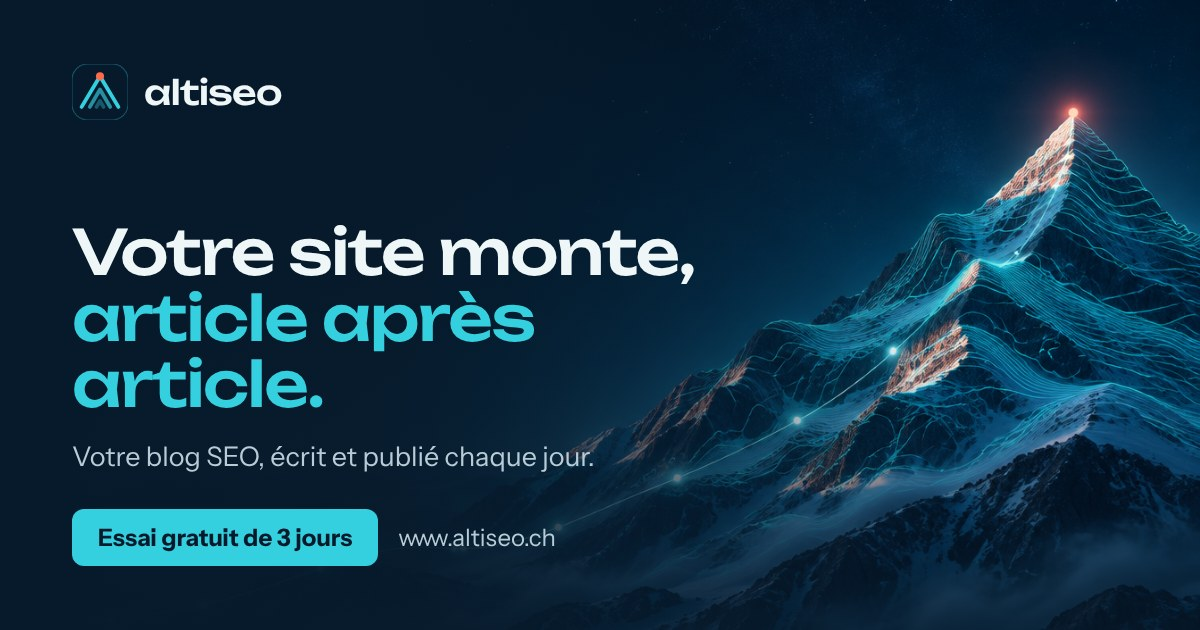
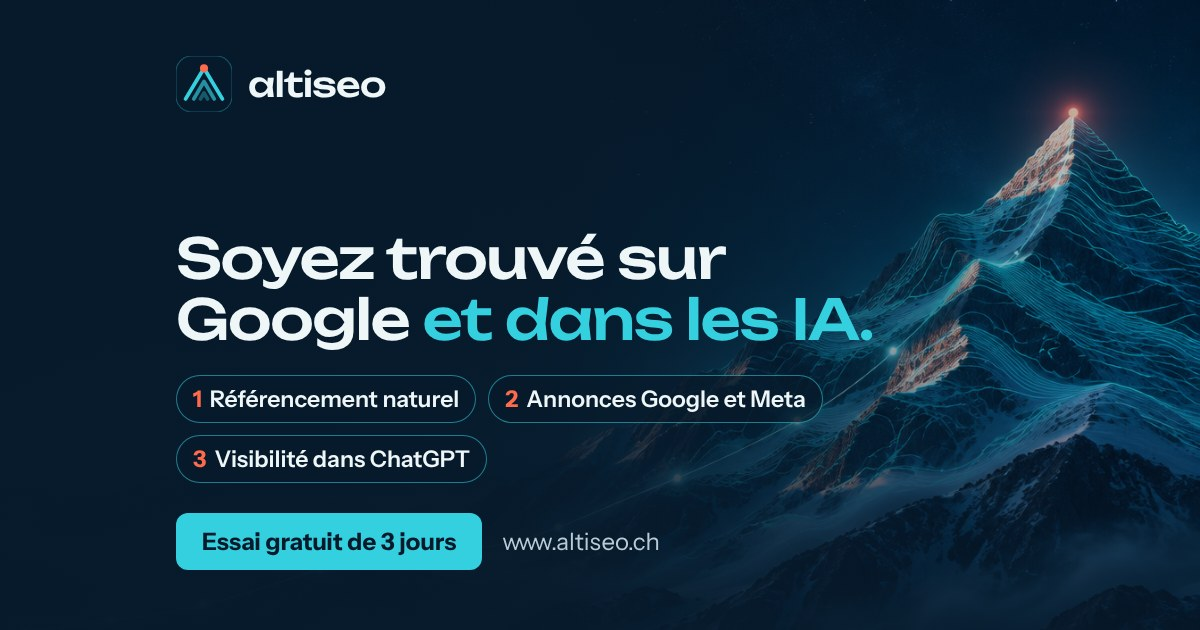
Rework the share preview: stronger message, safe from cropping
Messaging apps crop the preview image to its centre, which cut the logo
and headline. Everything now sits inside the centre area they keep. The
image and the link text put forward natural search, Google and Meta
ads, and visibility in AI assistants, with the free trial as the call
to action.

Claude-Session: https://claude.ai/code/session_011RBLGKB5dKpvgzhoEGGa65

diff --git a/replica/brand/partage.html b/replica/brand/partage.html
@@ -4,18 +4,20 @@
 *{margin:0;box-sizing:border-box}
 body{width:1200px;height:630px;position:relative;overflow:hidden;background:#071a2b;color:#eef6f8;font-family:I,sans-serif}
 .bg{position:absolute;inset:0;background:url("partage-fond.png") right center/cover}
-.shade{position:absolute;inset:0;background:linear-gradient(90deg,#071a2b 0%,rgba(7,26,43,.92) 34%,rgba(7,26,43,.35) 62%,rgba(7,26,43,0) 80%),linear-gradient(0deg,rgba(7,26,43,.75) 0%,rgba(7,26,43,0) 38%)}
-.wrap{position:absolute;inset:0;padding:64px 72px;display:flex;flex-direction:column}
+.shade{position:absolute;inset:0;background:linear-gradient(90deg,rgba(7,26,43,.96) 0%,rgba(7,26,43,.93) 46%,rgba(7,26,43,.5) 70%,rgba(7,26,43,.1) 100%),linear-gradient(0deg,rgba(7,26,43,.8) 0%,rgba(7,26,43,0) 40%)}
+.wrap{position:absolute;inset:0;padding:56px 176px 60px 176px;display:flex;flex-direction:column}
 .logo{display:flex;align-items:center;gap:16px;font-family:U;font-weight:500;font-size:34px;letter-spacing:-.02em}
-h1{font-family:U;font-weight:500;font-size:62px;line-height:1.06;letter-spacing:-.025em;margin-top:auto;max-width:720px}
+h1{font-family:U;font-weight:500;font-size:56px;line-height:1.08;letter-spacing:-.025em;margin-top:auto;max-width:760px}
 h1 em{font-style:normal;color:#35d0e0}
-p{font-size:27px;line-height:1.35;color:#b7ccd6;margin-top:22px;max-width:640px}
-.row{display:flex;align-items:center;gap:20px;margin-top:34px}
+ul{list-style:none;padding:0;display:flex;flex-wrap:wrap;gap:12px;margin-top:26px;max-width:800px}
+li{font-size:23px;font-weight:600;padding:9px 16px;border-radius:999px;border:1.5px solid rgba(53,208,224,.55);background:rgba(7,26,43,.72);color:#eef6f8}
+li b{color:#ff6a4d;font-weight:700;margin-right:8px}
+.row{display:flex;align-items:center;gap:20px;margin-top:30px}
 .cta{background:#35d0e0;color:#071a2b;font-weight:700;font-size:24px;padding:14px 26px;border-radius:12px}
 .url{font-size:24px;color:#b7ccd6}
 </style></head><body><div class="bg"></div><div class="shade"></div><div class="wrap">
 <div class="logo"><svg width="56" height="56" viewBox="0 0 32 32"><rect width="32" height="32" rx="9" fill="#071a2b" stroke="rgba(53,208,224,.35)" stroke-width=".6"/><g fill="none" stroke="#35d0e0" stroke-width="2.2" stroke-linecap="round" stroke-linejoin="round"><path d="M5.5 24.5 16 7l10.5 17.5"/><path d="M10.2 24.5 16 14.6l5.8 9.9" opacity=".65"/><path d="M14 24.5l2-3.4 2 3.4" opacity=".35"/></g><circle cx="16" cy="7" r="2.3" fill="#ff6a4d"/></svg>altiseo</div>
-<h1>Votre site monte, <em>article après article.</em></h1>
-<p>Votre blog SEO, écrit et publié chaque jour.</p>
+<h1>Soyez trouvé sur Google <em>et dans les IA.</em></h1>
+<ul><li><b>1</b>Référencement naturel</li><li><b>2</b>Annonces Google et Meta</li><li><b>3</b>Visibilité dans ChatGPT</li></ul>
 <div class="row"><span class="cta">Essai gratuit de 3 jours</span><span class="url">www.altiseo.ch</span></div>
 </div></body></html>

diff --git a/src/app/layout.tsx b/src/app/layout.tsx
@@ -3,12 +3,12 @@ import { PUBLIC_URL } from "@/lib/public-url";
 import "./globals.css";
 
 /** L'image qui accompagne un lien partagé (WhatsApp, LinkedIn, Facebook, iMessage…) : 1200 × 630, le format attendu. */
-const SHARE_IMAGE = { url: "/brand/partage.jpg", width: 1200, height: 630, alt: "Altiseo : votre site monte, article après article. Essai gratuit de 3 jours." };
+const SHARE_IMAGE = { url: "/brand/partage.jpg", width: 1200, height: 630, alt: "Altiseo : soyez trouvé sur Google et dans les IA. Référencement naturel, annonces Google et Meta, visibilité dans ChatGPT. Essai gratuit de 3 jours." };
 
 export const metadata: Metadata = {
   metadataBase: new URL(PUBLIC_URL),
   title: { default: "Altiseo", template: "%s · Altiseo" },
-  description: "Des articles SEO écrits, planifiés et publiés pour vous, chaque jour.",
+  description: "Référencement naturel, annonces Google et Meta, visibilité dans les IA : Altiseo écrit, publie et mesure pour vous. Essai gratuit de 3 jours.",
   applicationName: "Altiseo",
   openGraph: { type: "website", siteName: "Altiseo", locale: "fr_CH", images: [SHARE_IMAGE] },
   twitter: { card: "summary_large_image", images: [SHARE_IMAGE] },

diff --git a/src/app/page.tsx b/src/app/page.tsx
@@ -12,8 +12,9 @@ import { ScoreGauge } from "@/components/ui/card";
 import { StatusPill } from "@/components/ui/status";
 
 export const metadata: Metadata = { alternates: { canonical: "/" },
-  title: "Altiseo : votre blog SEO, écrit et publié pour vous",
-  description: "Altiseo prépare vos sujets, écrit un article par jour dans votre ton et l'envoie sur votre site. Vous relisez, vous publiez. Essai gratuit de 3 jours.",
+  // Ce texte accompagne aussi les liens partagés : il doit donner envie de cliquer, sans rien promettre d'invérifiable.
+  title: { absolute: "Altiseo : soyez trouvé sur Google et dans les IA" },
+  description: "Référencement naturel, annonces Google et Meta, visibilité dans ChatGPT : Altiseo écrit, publie et mesure pour vous. Essayez 3 jours gratuitement, sans carte bancaire.",
 };
 
 const BENEFITS = [
